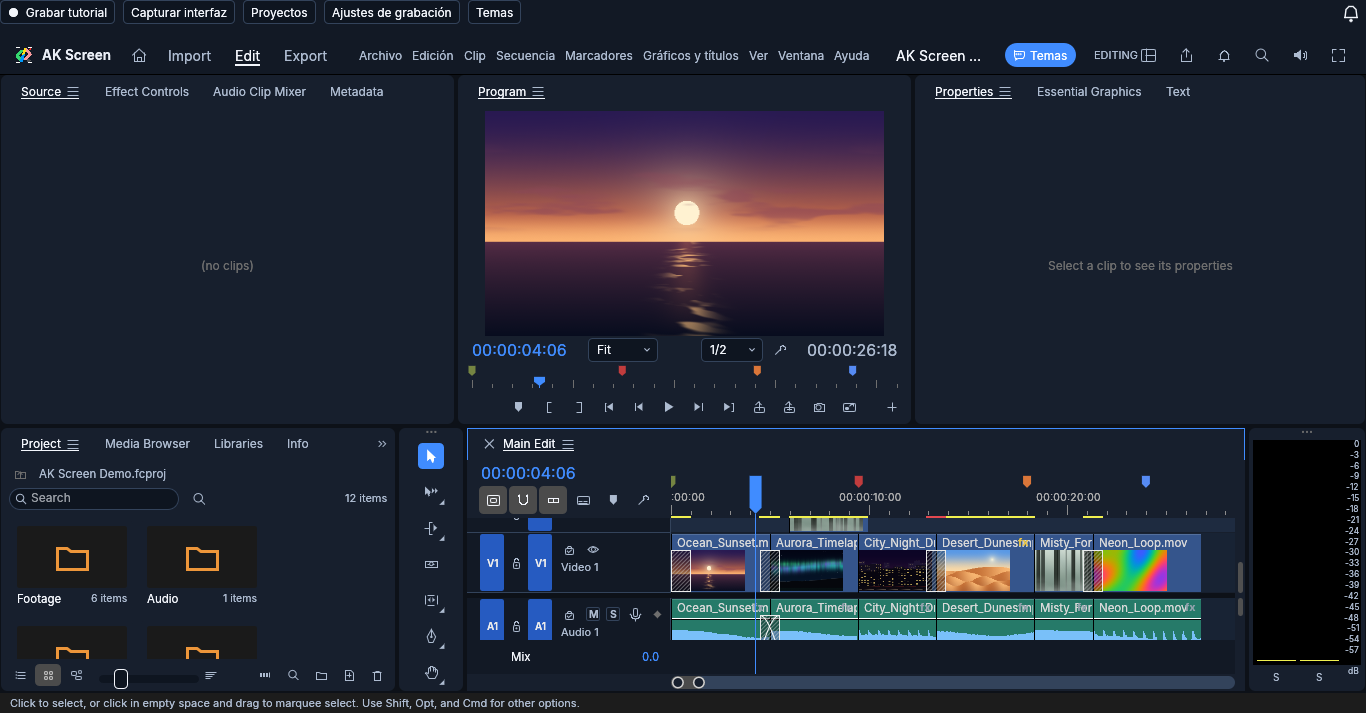
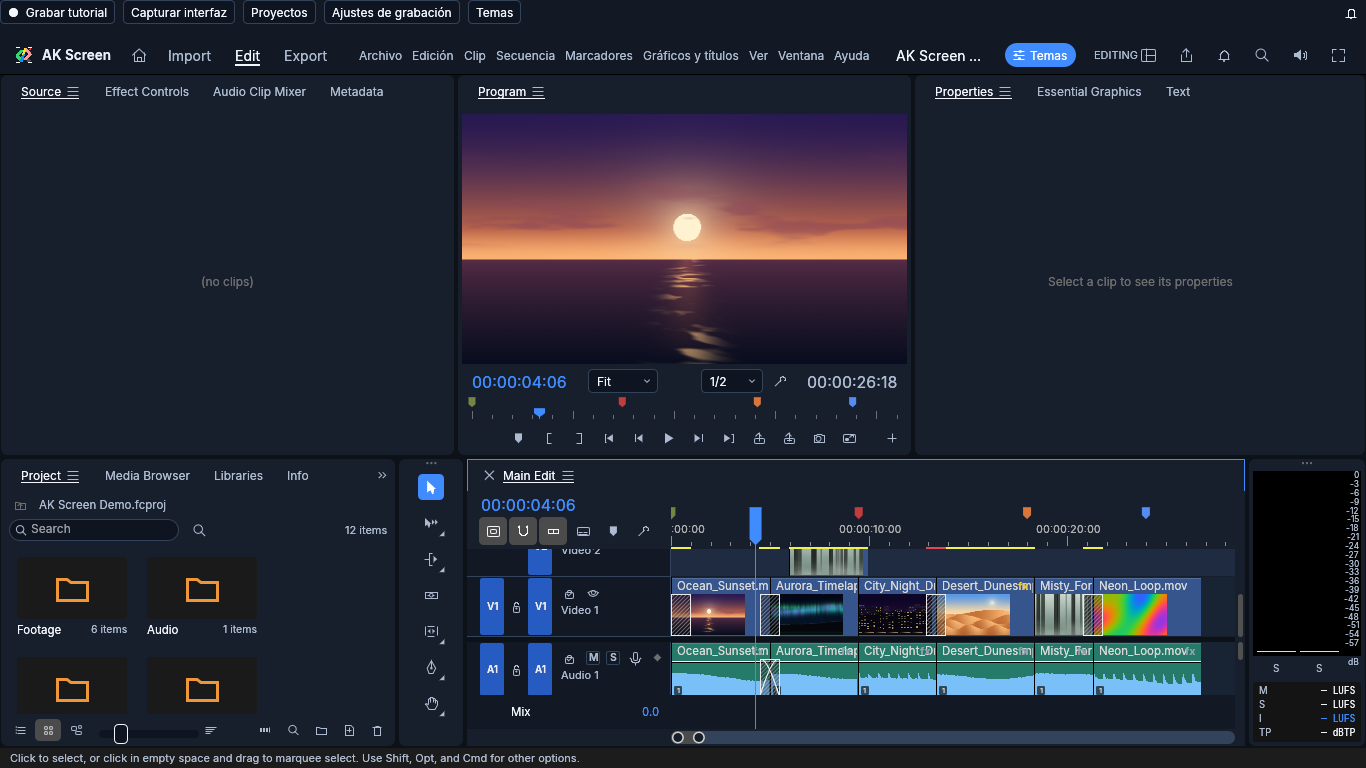
Show the integrated native theme marketplace

diff --git a/README.md b/README.md
@@ -44,6 +44,10 @@ Capturas reales de AK Screen 2.1 con contenido de demostración generado por la 
 |---|---|
 | ![Editor con Sakura Pulse](assets/screenshots/editor-sakura-pulse.png) | ![Inicio con Sakura Pulse](assets/screenshots/startup-sakura-pulse.png) |
 
+El catálogo también está integrado en el editor, con vistas previas y descarga del paquete completo:
+
+![Catálogo integrado de temas](assets/screenshots/theme-catalog.png)
+
 ## Ejemplos de uso
 
 **Explicar una hoja de cálculo.** Mantén el clic al seleccionar una tabla: la cámara
